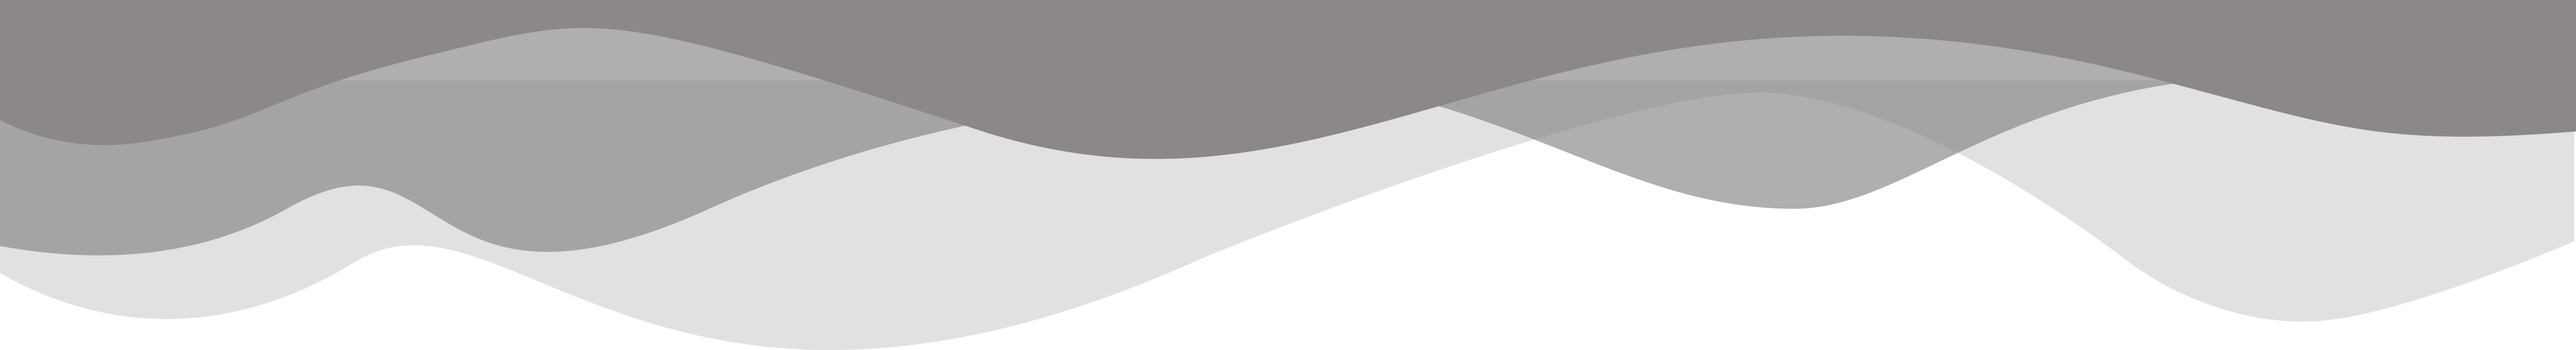
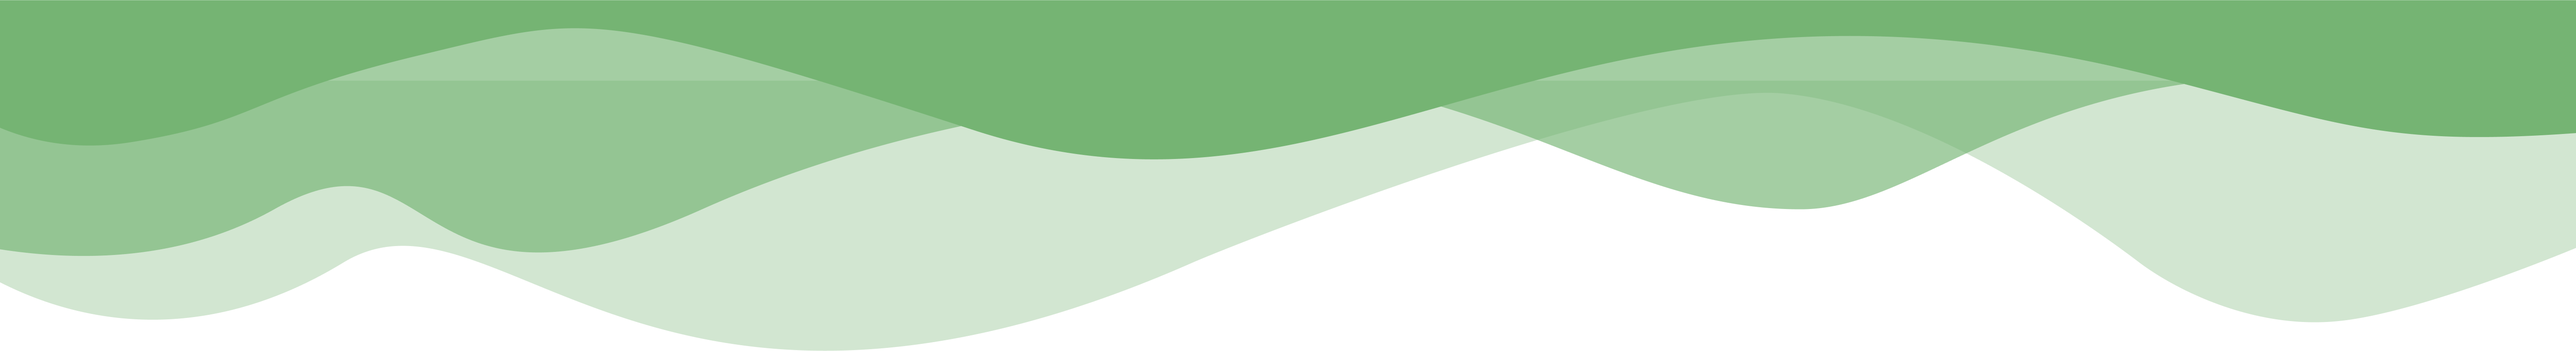
memperbaiki bug tampilan

diff --git a/src/index.css b/src/index.css
@@ -19,7 +19,7 @@ html {
   /* grey */
   --grey: #d9d9d9;
   --grey-100: #868686;
-  --grey-200: #DDDDDD;;
+  --grey-200: #DDDDDD;
   --grey-300: #F2F2F2;
   --grey-400: #CAD1D8;
   --grey-500: #D9D9D9;
@@ -39,6 +39,7 @@ html {
   --red-light: #f8d7da;
   --red-dark: #842029;
   --green: #6B8E23;
+  --green-200: #5C965B;
 
   --small-text: 0.875rem;
   --extra-small-text: 0.7em;
@@ -303,7 +304,7 @@ PROJECT CSS
   justify-content: space-around;
   width: 100%;
   max-width: var(--max-width); /* Limit the maximum width for larger screens */
-  background-color: var(--blue-200);
+  background-color: var(--green-200);
 }
 
 
@@ -327,7 +328,7 @@ PROJECT CSS
   flex-direction: column; /* For small screens, stack elements vertically */
   gap: 30px;
   align-items: center;
-  background-color: var(--blue-200);
+  background-color: var(--green-200);
   padding: 45px;
   
 
@@ -428,28 +429,35 @@ PROJECT CSS
   margin: 20px 0;
 }
 .logo-news {
-  width: 150px;
-  margin-right: 20px;
+display: flex;
+  align-items: center;
+  width: 750px;
+  margin-right: 70px;
+  margin-left: 70px;
 }
 .news-image {
   width: 100%;
+ 
 }
 .news{
     background-color: black;
-  width: 330px;
-  height: 330px;
+
   display: flex;
   flex-direction: column;
   justify-content: end;
-  padding: 30px;
+  padding:  30px 70px;
   
 }
  .news-text, .calender-text{
+
   color: white;
   text-align: start;
 }
 .header-news{
+  margin-top: 100px;
   margin-bottom: 15px;
+  text-align: start;
+  font-size: 20px;
 }
 .ic-news{
   margin-bottom: 5px;
@@ -475,24 +483,26 @@ PROJECT CSS
   display: flex;
   gap: 1px;
 }
-.section-news {
-  flex: 1;
-  display: flex;
-  flex-wrap: wrap;
-  justify-content: space-between;
-}
-
-@media (max-width: 768px) {
-
-
-  .content-news{
-    display: flex;
-    justify-content: center;
-    align-items: center;
+@media screen and (min-width: 768px) {
+  .section-news {
+    display: grid;
+    grid-template-columns: 1fr 1fr;
+    gap: 1rem;
+    padding: 20px 100px;
+  
+   
   }
-
-
 }
+@media screen and (min-width: 1170px) {
+    .section-news {
+    grid-template-columns: 1fr 1fr 1fr 1fr;
+    gap: 1rem;
+  
+  }
+}
+
+
+
 
 
 /* Motivate.css */
@@ -957,7 +967,8 @@ height: 107.884px;
 }
 .icon-edit-data{
   display: flex;
-  justify-content: space-around;
+  justify-content: end;
+  gap: 20px;
 }
 
 .btn-upload-photo{
@@ -1094,8 +1105,7 @@ button span {
       border-radius:20px
     }
 
-
-    .searchIcon{
+.searchIcon{
       margin-left: 20px;
       background-color: var(--brown); 
       color: #fff; 
@@ -1104,3 +1114,16 @@ button span {
       border-radius:20px
 
     }
+
+.sub-header-name-bar{
+  background-color: var(--grey-500);
+  width:100%;
+  border: 1.5px solid #000;
+
+}
+
+.name-section-bar{
+  padding-left: 20px;
+  font-size: 30px;
+  font-weight: bold;
+}

diff --git a/src/components/MuridForm.jsx b/src/components/MuridForm.jsx
@@ -38,12 +38,12 @@ const MuridForm = () => {
           <Stack spacing={2} margin={2}>
             <TextField variant="outlined" label="Kelas"></TextField>
             <TextField variant="outlined" label="Nama"></TextField>
-            <FormLabel id="demo-radio-buttons-group-label">Gender</FormLabel>
 
             <TextField variant="outlined" label="NIS"></TextField>
-            <RadioGroup aria-labelledby="demo-radio-buttons-group-label" defaultValue="female" name="radio-buttons-group">
-              <FormControlLabel value="female" control={<Radio />} label="Female" />
-              <FormControlLabel value="male" control={<Radio />} label="Male" />
+            <FormLabel id="demo-radio-buttons-group-label">Gender</FormLabel>
+            <RadioGroup aria-labelledby="demo-radio-buttons-group-label" defaultValue="female" name="radio-buttons-group" row>
+              <FormControlLabel value="Lak-laki" control={<Radio />} label="Female" />
+              <FormControlLabel value="Perempuan" control={<Radio />} label="Male" />
             </RadioGroup>
 
             <Button onClick={closepopup} className="btn-save-murid">

diff --git a/src/components/AdminForm.jsx b/src/components/AdminForm.jsx
@@ -51,7 +51,7 @@ const AdminForm = () => {
             <TextField variant="outlined" label="Email"></TextField>
             <FormLabel id="demo-radio-buttons-group-label">Jenis Kelamin</FormLabel>
 
-            <RadioGroup aria-labelledby="demo-radio-buttons-group-label" defaultValue="female" name="radio-buttons-group">
+            <RadioGroup aria-labelledby="demo-radio-buttons-group-label" defaultValue="female" name="radio-buttons-group" row>
               <FormControlLabel value="female" control={<Radio />} label="Female" />
               <FormControlLabel value="male" control={<Radio />} label="Male" />
             </RadioGroup>

diff --git a/src/pages/Admin.jsx b/src/pages/Admin.jsx
@@ -75,6 +75,7 @@ const Admin = () => {
         <Header
           style={{
             padding: 0,
+            marginBottom: 100,
             background: '#6B8E23',
           }}
         >
@@ -83,6 +84,9 @@ const Admin = () => {
               <UserOutlined />
             </div>
             <div className="name-bar">susanti</div>
+          </div>
+          <div className="sub-header-name-bar">
+            <div className="name-section-bar">Data Admin</div>
           </div>
         </Header>
         <Content

diff --git a/src/pages/Kelas.jsx b/src/pages/Kelas.jsx
@@ -76,6 +76,7 @@ const Kelas = () => {
         <Header
           style={{
             padding: 0,
+            marginBottom: 100,
             background: '#6B8E23',
           }}
         >
@@ -84,6 +85,9 @@ const Kelas = () => {
               <UserOutlined />
             </div>
             <div className="name-bar">susanti</div>
+          </div>
+          <div className="sub-header-name-bar">
+            <div className="name-section-bar">Data Kelas</div>
           </div>
         </Header>
         <Content

diff --git a/src/pages/Murid.jsx b/src/pages/Murid.jsx
@@ -75,6 +75,7 @@ const Murid = () => {
         <Header
           style={{
             padding: 0,
+            marginBottom: 100,
             background: '#6B8E23',
           }}
         >
@@ -83,6 +84,9 @@ const Murid = () => {
               <UserOutlined />
             </div>
             <div className="name-bar">susanti</div>
+          </div>
+          <div className="sub-header-name-bar">
+            <div className="name-section-bar">Data Murid</div>
           </div>
         </Header>
         <Content

diff --git a/src/components/Newslist.jsx b/src/components/Newslist.jsx
@@ -18,9 +18,9 @@ const Newslist = () => {
         </div>
       </div>
       <div className="content-news">
-        {/* <div className="logo-news">
+        <div className="logo-news">
           <img className="news-image" src={news} alt="" />
-        </div> */}
+        </div>
         <div className="section-news">
           {news_data.map((data) => {
             return <News {...data} key={data.id} />;

diff --git a/src/components/NewsKegiatanList.jsx b/src/components/NewsKegiatanList.jsx
@@ -24,9 +24,9 @@ const NewsKegiatanList = () => {
             return <News {...data} key={data.id} />;
           })}
         </div>
-        {/* <div className="logo-news">
+        <div className="logo-news">
           <img className="news-image" src={news} alt="" />
-        </div> */}
+        </div>
       </div>
       <img className="wave-news-up" src={waveDown} alt="wave" />
     </div>

diff --git a/src/components/TableAdmin.jsx b/src/components/TableAdmin.jsx
@@ -11,7 +11,7 @@ import EditIcon from '@mui/icons-material/Edit';
 import DeleteIcon from '@mui/icons-material/Delete';
 
 const columns = [
-  { id: 'no', label: 'Email', minWidth: 170 },
+  { id: 'no', label: 'no', minWidth: 170 },
   { id: 'email', label: 'Email', minWidth: 170 },
   { id: 'username', label: 'Username', minWidth: 100 },
   {
